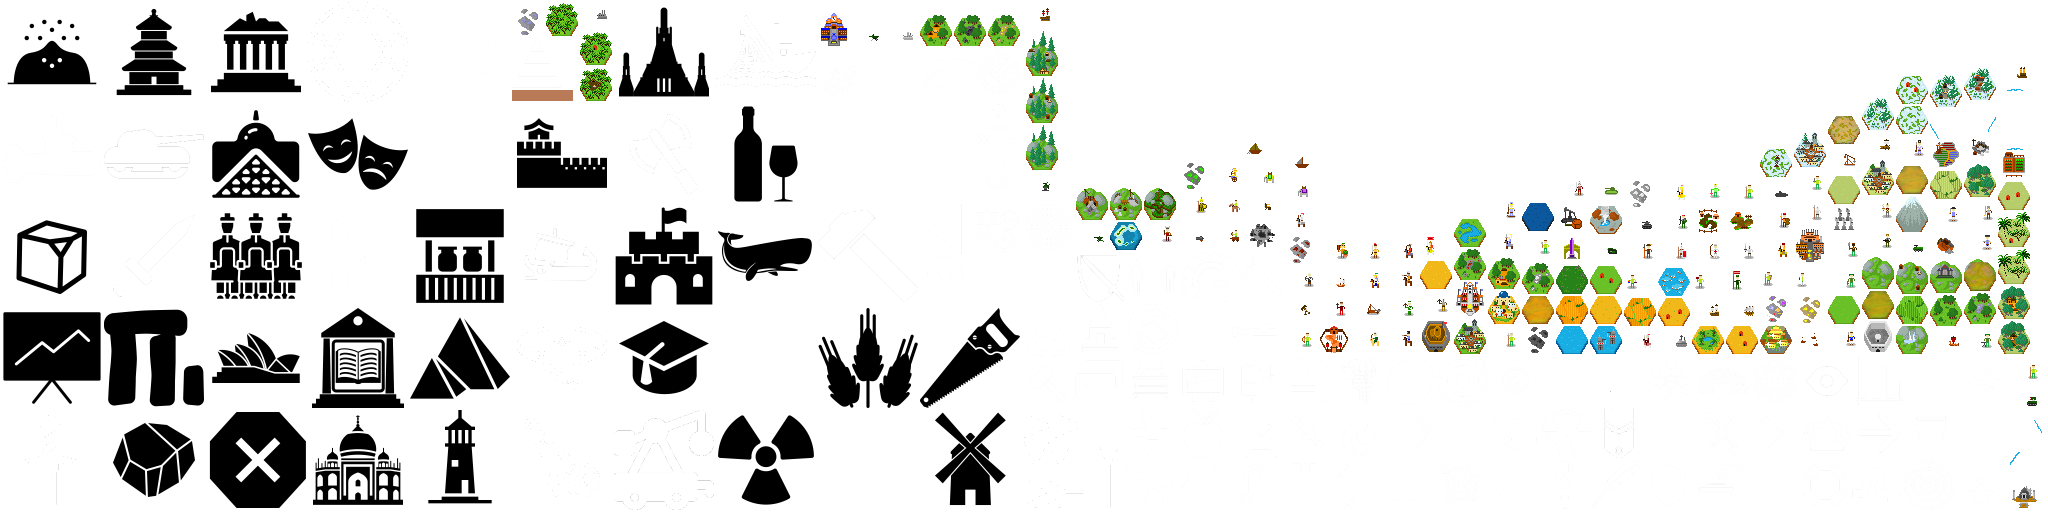
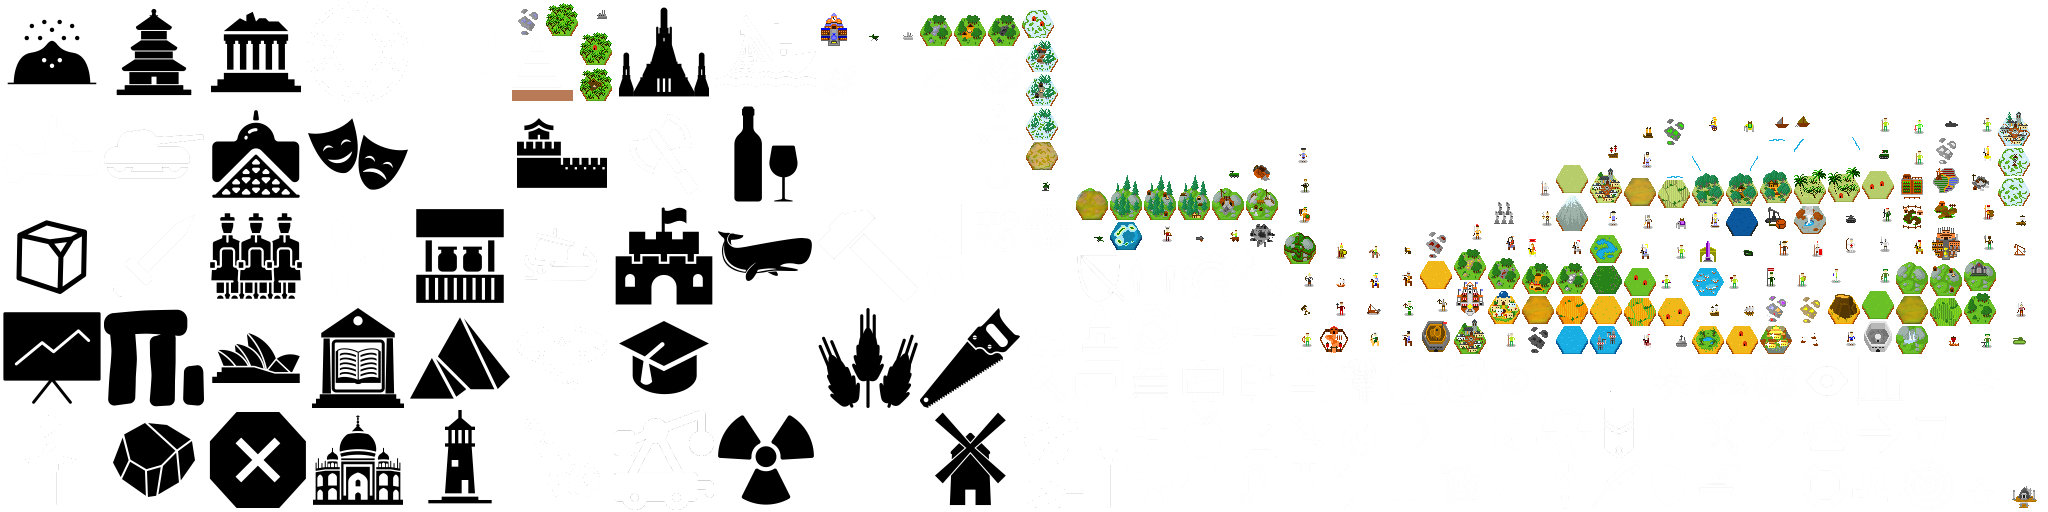
Grand Mesa artwork by The Bucketeer means it's now in the game!

Changed region(s): [[0.5, 0.125, 1.0, 0.6875], [0.4688, 0.0, 0.5312, 0.3438]]

diff --git a/core/src/com/unciv/UncivGame.kt b/core/src/com/unciv/UncivGame.kt
@@ -17,13 +17,9 @@ import com.unciv.models.ruleset.Ruleset
 import com.unciv.models.translations.TranslationFileReader
 import com.unciv.models.translations.Translations
 import com.unciv.ui.LanguagePickerScreen
-import com.unciv.ui.utils.CameraStageBaseScreen
-import com.unciv.ui.utils.CrashController
-import com.unciv.ui.utils.CrashReportSender
-import com.unciv.ui.utils.ImageGetter
-import com.unciv.ui.utils.center
+import com.unciv.ui.utils.*
 import com.unciv.ui.worldscreen.WorldScreen
-import java.util.UUID
+import java.util.*
 import kotlin.concurrent.thread
 
 class UncivGame(
